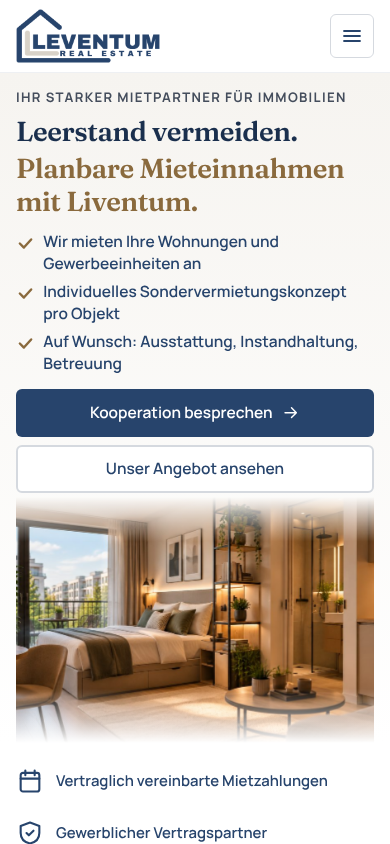
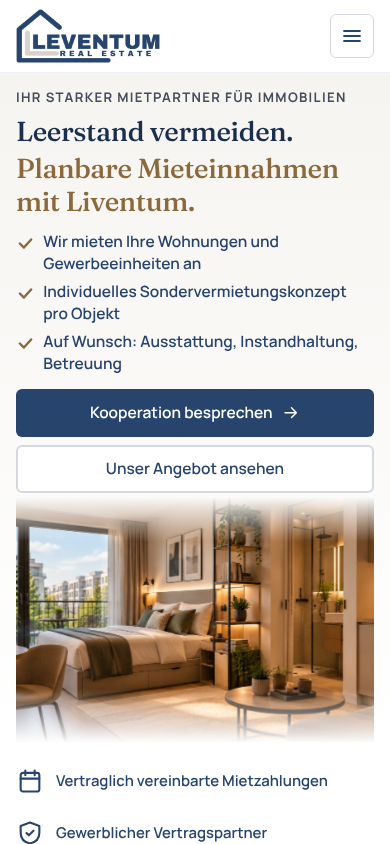
Design an Referenz-CI angepasst, CRM-Sektion mit Dashboard-Mockup, Hero-Bild bündig rechts
Claude-Session: https://claude.ai/code/session_01KEcscF8ABiEHPf9rzLQ9PG

Changed region(s): [[0.0923, 0.1232, 0.8923, 0.2773]]

diff --git a/css/sections.css b/css/sections.css
@@ -16,7 +16,7 @@
 /* Hero */
 .hero { background: linear-gradient(180deg, var(--beige-100), #fff); padding: var(--space-5) 0 var(--space-5); }
 .hero-grid { display: grid; grid-template-columns: 1.05fr 1fr; gap: var(--space-5); align-items: center; }
-.hero h1 { font-weight: 600; color: var(--navy-900); }
+.hero h1 { font-weight: 500; color: var(--navy-900); }
 .hero h1 .ln { display: block; overflow: hidden; padding-bottom: 0.14em; margin-bottom: -0.14em; }
 .hero h1 .ln > span { display: block; }
 .hero .accent { display: block; margin-top: 0.15em; color: var(--bronze); font-weight: inherit; }
@@ -65,7 +65,7 @@
 .service-list p { color: var(--grey-700); margin-top: 0.2rem; }
 
 /* Immobilientypen */
-.type-card { background: #fff; border: 1px solid var(--grey-100); border-radius: var(--radius-md); overflow: hidden; box-shadow: var(--shadow-sm); display: flex; flex-direction: column; }
+.type-card { background: #fff; border: 1px solid var(--sand); border-radius: var(--radius-md); overflow: hidden; display: flex; flex-direction: column; }
 .type-card img { width: 100%; aspect-ratio: 10 / 7; object-fit: cover; }
 .type-body { padding: var(--space-3); display: flex; flex-direction: column; gap: 0.75rem; flex: 1; align-items: flex-start; }
 .type-body > p { color: var(--grey-700); font-size: 0.95rem; }
@@ -212,10 +212,10 @@
 .model-head { max-width: 40rem; margin-bottom: var(--space-5); }
 .model-head .eyebrow { color: var(--sand); display: flex; align-items: center; gap: 0.7rem; }
 .model-head .eyebrow::before { content: ""; width: 32px; height: 2px; background: var(--sand); }
-.model-head h2 { color: #fff; font-weight: 500; }
+.model-head h2 { color: #fff; }
 .flow { display: grid; grid-template-columns: 1fr minmax(110px, 0.8fr) 1.15fr minmax(110px, 0.8fr) 1fr; align-items: start; }
 .node { display: flex; flex-direction: column; align-items: center; text-align: center; gap: 1rem; }
-.node h3 { color: #fff; font-family: var(--font-serif); font-weight: 600; font-size: 1.35rem; }
+.node h3 { color: #fff; font-family: var(--font-serif); font-weight: 500; font-size: 1.35rem; }
 .node p { margin-top: 0.4rem; color: #d3dbe8; font-size: 0.95rem; max-width: 24ch; margin-inline: auto; }
 .node-icon { width: 76px; height: 76px; border-radius: 50%; display: grid; place-items: center; flex: none; color: var(--sand);
   border: 1.5px solid rgba(216, 210, 200, 0.55); background: rgba(255, 255, 255, 0.06); }
@@ -269,4 +269,27 @@
 @media (max-width: 900px) {
   .footer-inner { grid-template-columns: 1fr; justify-items: start; }
   .footer-logo img { height: 56px; }
+}
+
+/* Hero Desktop: Bild bündig zum rechten Rand, links weich ausgeblendet */
+@media (min-width: 1100px) {
+  .hero { padding: 0; overflow: hidden; }
+  .hero-grid { align-items: stretch; gap: var(--space-4); min-height: 560px; }
+  .hero-copy { align-self: center; padding: var(--space-5) 0; }
+  .hero-visual { margin-right: calc((min(100vw - 32px, var(--container)) - 100vw) / 2); }
+  .hero-figure { height: 100%; aspect-ratio: auto; -webkit-mask-image: linear-gradient(to right, transparent 0, #000 24%); mask-image: linear-gradient(to right, transparent 0, #000 24%); -webkit-mask-composite: source-over; mask-composite: add; }
+}
+
+/* CRM */
+.crm-grid { display: grid; grid-template-columns: 0.9fr 1.1fr; gap: var(--space-5); align-items: center; }
+.crm-points { margin-top: var(--space-3); gap: 0.9rem; }
+.crm-points li { font-size: 1.08rem; font-weight: 600; color: var(--navy-800); padding-left: 1.9rem; }
+.crm-points li::before { top: 0.3em; width: 1.15em; height: 1.15em; background: var(--bronze); }
+.crm-figure { margin: 0; min-width: 0; }
+.crm-frame { border: 1px solid var(--sand); border-radius: var(--radius-lg); overflow: hidden; background: #fff; box-shadow: var(--shadow-md); }
+.crm-frame img { width: 100%; height: auto; }
+.crm-figure figcaption { margin-top: 0.75rem; font-size: 0.85rem; color: var(--grey-500); }
+@media (max-width: 900px) {
+  .crm-grid { grid-template-columns: minmax(0, 1fr); gap: var(--space-4); }
+  .crm-points li { font-size: 1rem; }
 }

diff --git a/index.html b/index.html
@@ -242,6 +242,28 @@
       </div>
     </section>
 
+    <!-- CRM -->
+    <section class="section section-beige crm" id="verwaltung" aria-labelledby="crm-title">
+      <div class="container crm-grid">
+        <div class="crm-copy">
+          <p class="eyebrow">Digitale Verwaltung</p>
+          <h2 id="crm-title">Immobilienverwaltung. Klar organisiert.</h2>
+          <ul class="check-list crm-points">
+            <li>Mieterdaten und Verträge zentral verwalten</li>
+            <li>Anliegen und Reparaturen strukturiert erfassen</li>
+            <li>Aufgaben und Bearbeitungsstände im Blick behalten</li>
+            <li>Transparente Zusammenarbeit mit Eigentümern</li>
+          </ul>
+        </div>
+        <figure class="crm-figure">
+          <div class="crm-frame">
+            <img src="assets/img/crm-dashboard.webp" width="1400" height="933" loading="lazy" alt="Beispielansicht eines Verwaltungs-Dashboards mit Kennzahlen zu Mietern, Objekten, Verträgen und Aufgaben sowie dem Beispielmieter Max Mustermann">
+          </div>
+          <figcaption>Beispielansicht (Mockup). Dargestellte Daten sind fiktiv.</figcaption>
+        </figure>
+      </div>
+    </section>
+
     <!-- IMMOBILIENTYPEN -->
     <section class="section" id="immobilientypen" aria-labelledby="types-title">
       <div class="container">

diff --git a/js/main.js b/js/main.js
@@ -41,7 +41,7 @@
   var py = 0;
   if (motionOK && 'IntersectionObserver' in window) {
     document.documentElement.classList.add('reveal-on');
-    var sel = '.model-panel, .section-head, .card, .process li, .type-card, .service-list li, .expertise-figure, .table-wrap, .legal-note, .accordion, .form-card, .contact-card, .matrix-block .section-head';
+    var sel = '.model-panel, .crm-copy, .crm-figure, .section-head, .card, .process li, .type-card, .service-list li, .expertise-figure, .table-wrap, .legal-note, .accordion, .form-card, .contact-card, .matrix-block .section-head';
     var els = document.querySelectorAll(sel);
     var rio = new IntersectionObserver(function (entries) {
       entries.forEach(function (en) {
@@ -89,7 +89,7 @@
   var map = {};
   links.forEach(function (l) { map[l.getAttribute('href').slice(1)] = l; });
   // Abschnitte ohne eigenen Menüpunkt werden dem passenden Punkt zugeordnet
-  var alias = { modell: 'ueberblick', vereinbarungen: 'zusammenarbeit', kontakt: null };
+  var alias = { modell: 'ueberblick', verwaltung: 'expertise', vereinbarungen: 'zusammenarbeit', kontakt: null };
   function setActive(id) {
     var key = id in alias ? alias[id] : id;
     links.forEach(function (l) { l.removeAttribute('aria-current'); });

diff --git a/css/base.css b/css/base.css
@@ -14,7 +14,7 @@ body {
 img, svg { max-width: 100%; }
 img { display: block; height: auto; }
 h1, h2, h3 { margin: 0; line-height: 1.2; color: var(--navy-800); }
-h1, h2 { font-family: var(--font-serif); font-weight: 600; letter-spacing: -0.015em; font-optical-sizing: auto; }
+h1, h2 { font-family: var(--font-serif); font-weight: 500; letter-spacing: -0.015em; font-optical-sizing: auto; }
 h1 { font-size: var(--fs-h1); }
 h2 { font-size: var(--fs-h2); }
 h3 { font-size: var(--fs-h3); font-weight: 700; }

diff --git a/css/components.css b/css/components.css
@@ -23,8 +23,8 @@
 .grid-3 { grid-template-columns: repeat(3, 1fr); }
 .grid-4 { grid-template-columns: repeat(4, 1fr); }
 .card {
-  background: #fff; border: 1px solid var(--grey-100); border-radius: var(--radius-md);
-  padding: var(--space-3); box-shadow: var(--shadow-sm);
+  background: #fff; border: 1px solid var(--sand); border-radius: var(--radius-md);
+  padding: var(--space-3);
   display: flex; flex-direction: column; gap: 0.6rem;
 }
 .card p { color: var(--grey-700); font-size: 0.97rem; }
